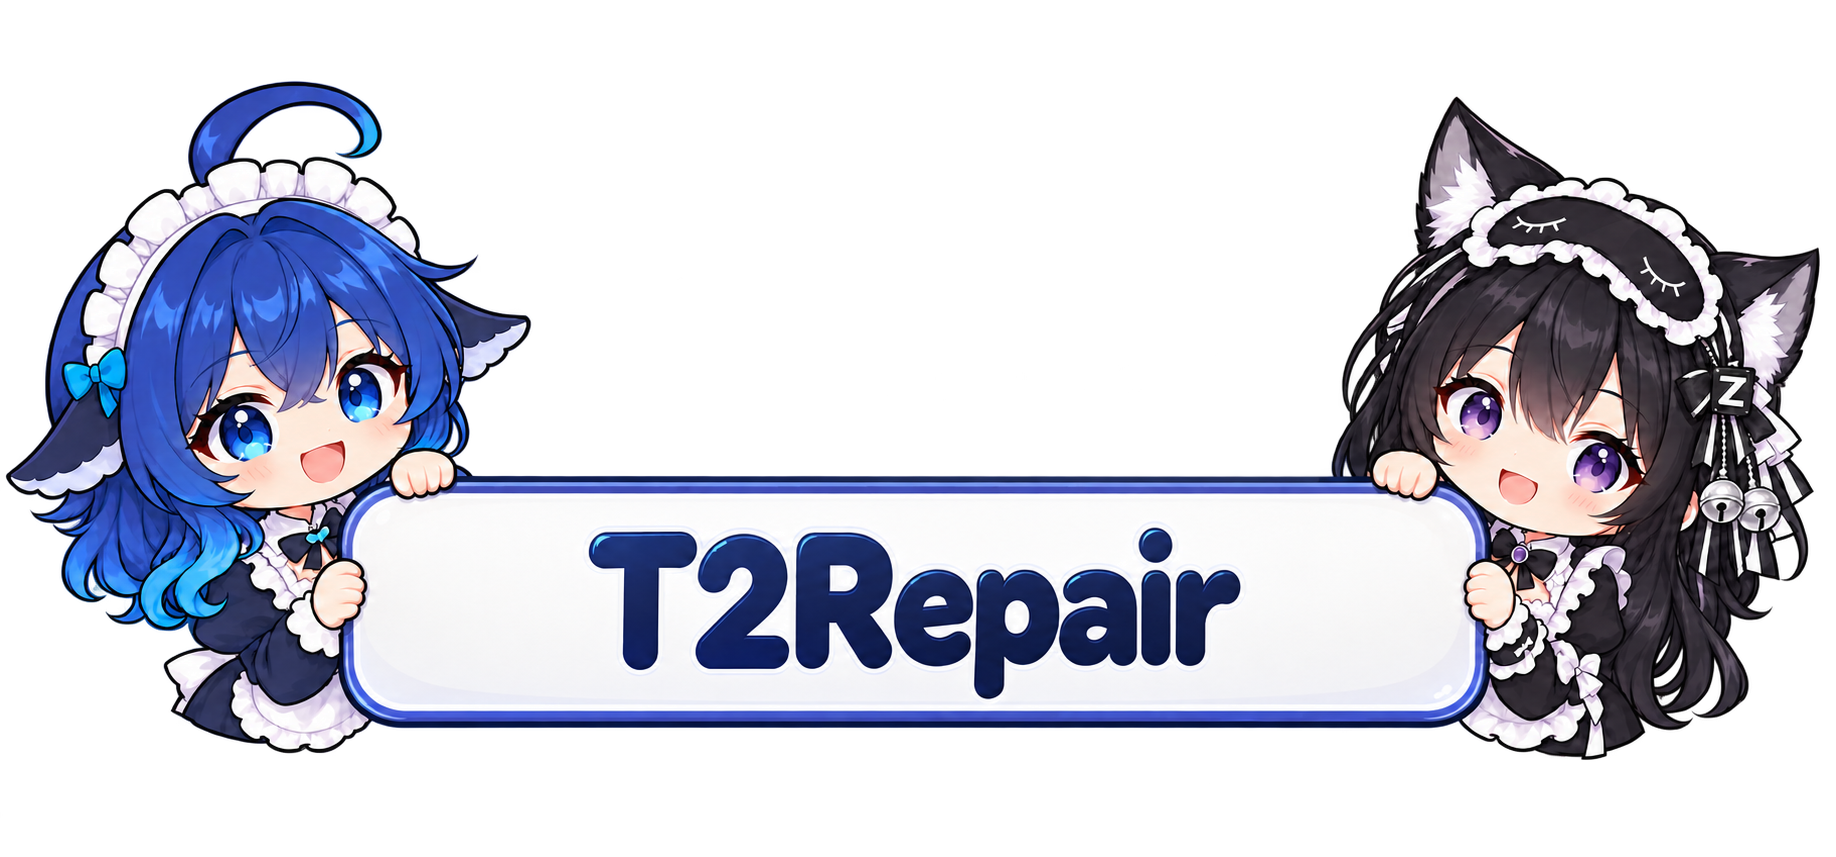
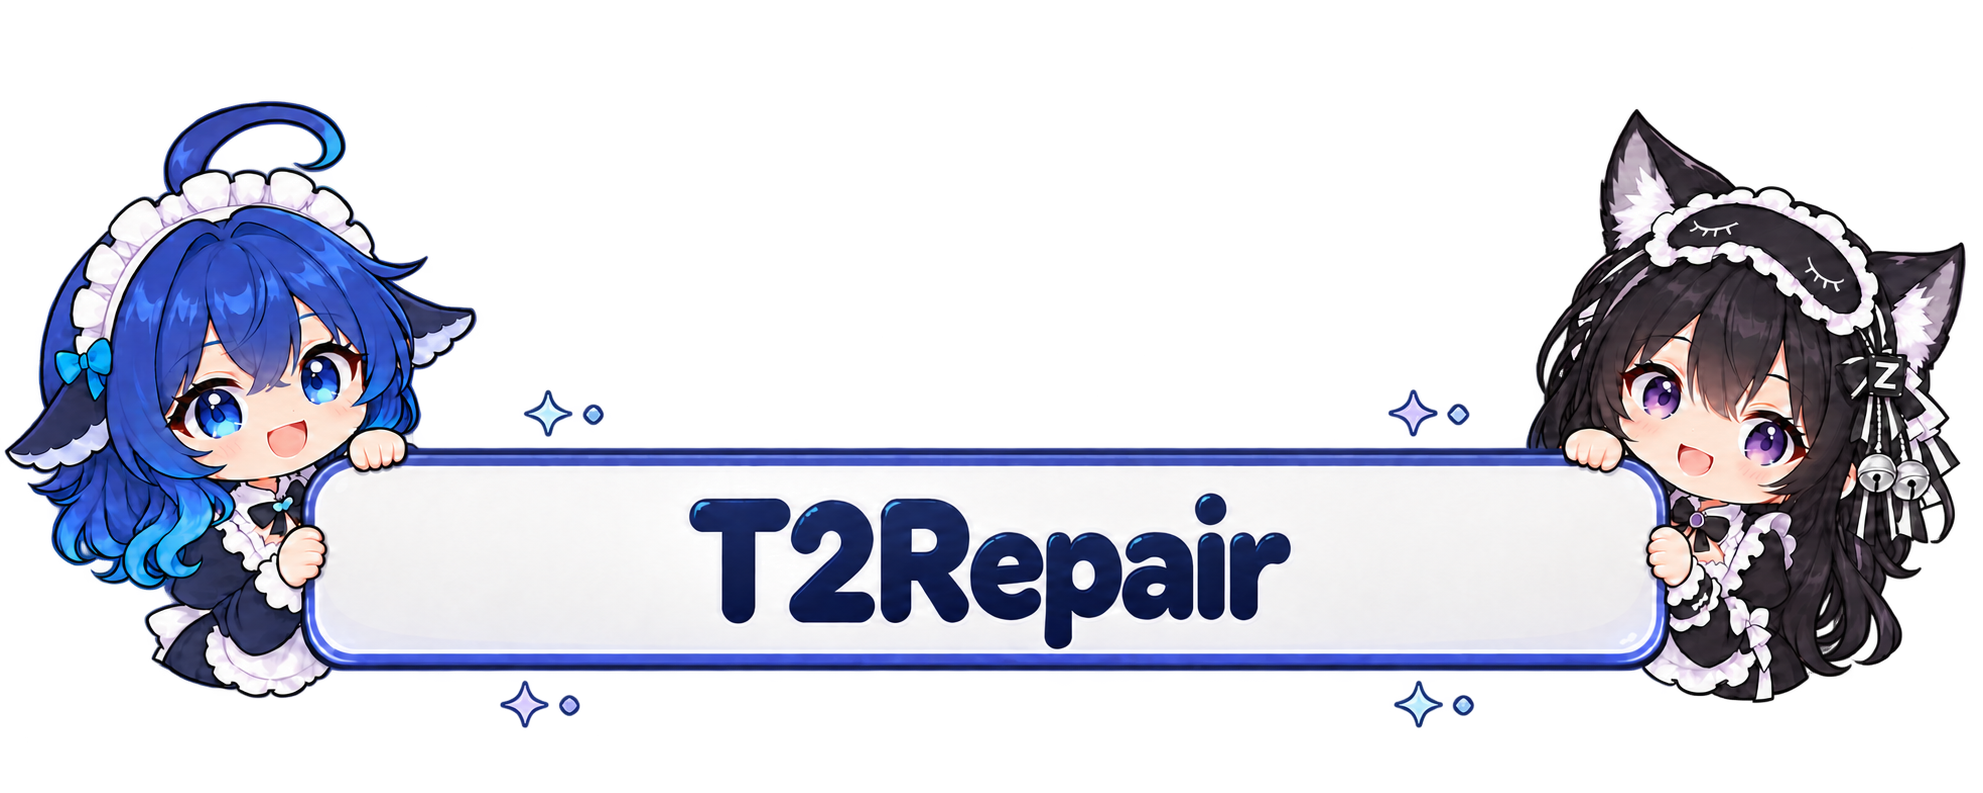
docs: widen nameplate and add subtle exterior accents

Changed region(s): [[0.0, 0.0908, 0.9935, 0.9079]]

diff --git a/README.md b/README.md
@@ -1,5 +1,5 @@
 <p align="center">
-  <img src="assets/t2repair-banner.png" alt="T2Repair nameplate held by the two project mascots" width="960">
+  <img src="assets/t2repair-banner.png" alt="T2Repair nameplate held by two mascots, with small sparkles around its outer edge" width="960">
 </p>
 
 # T2Repair
